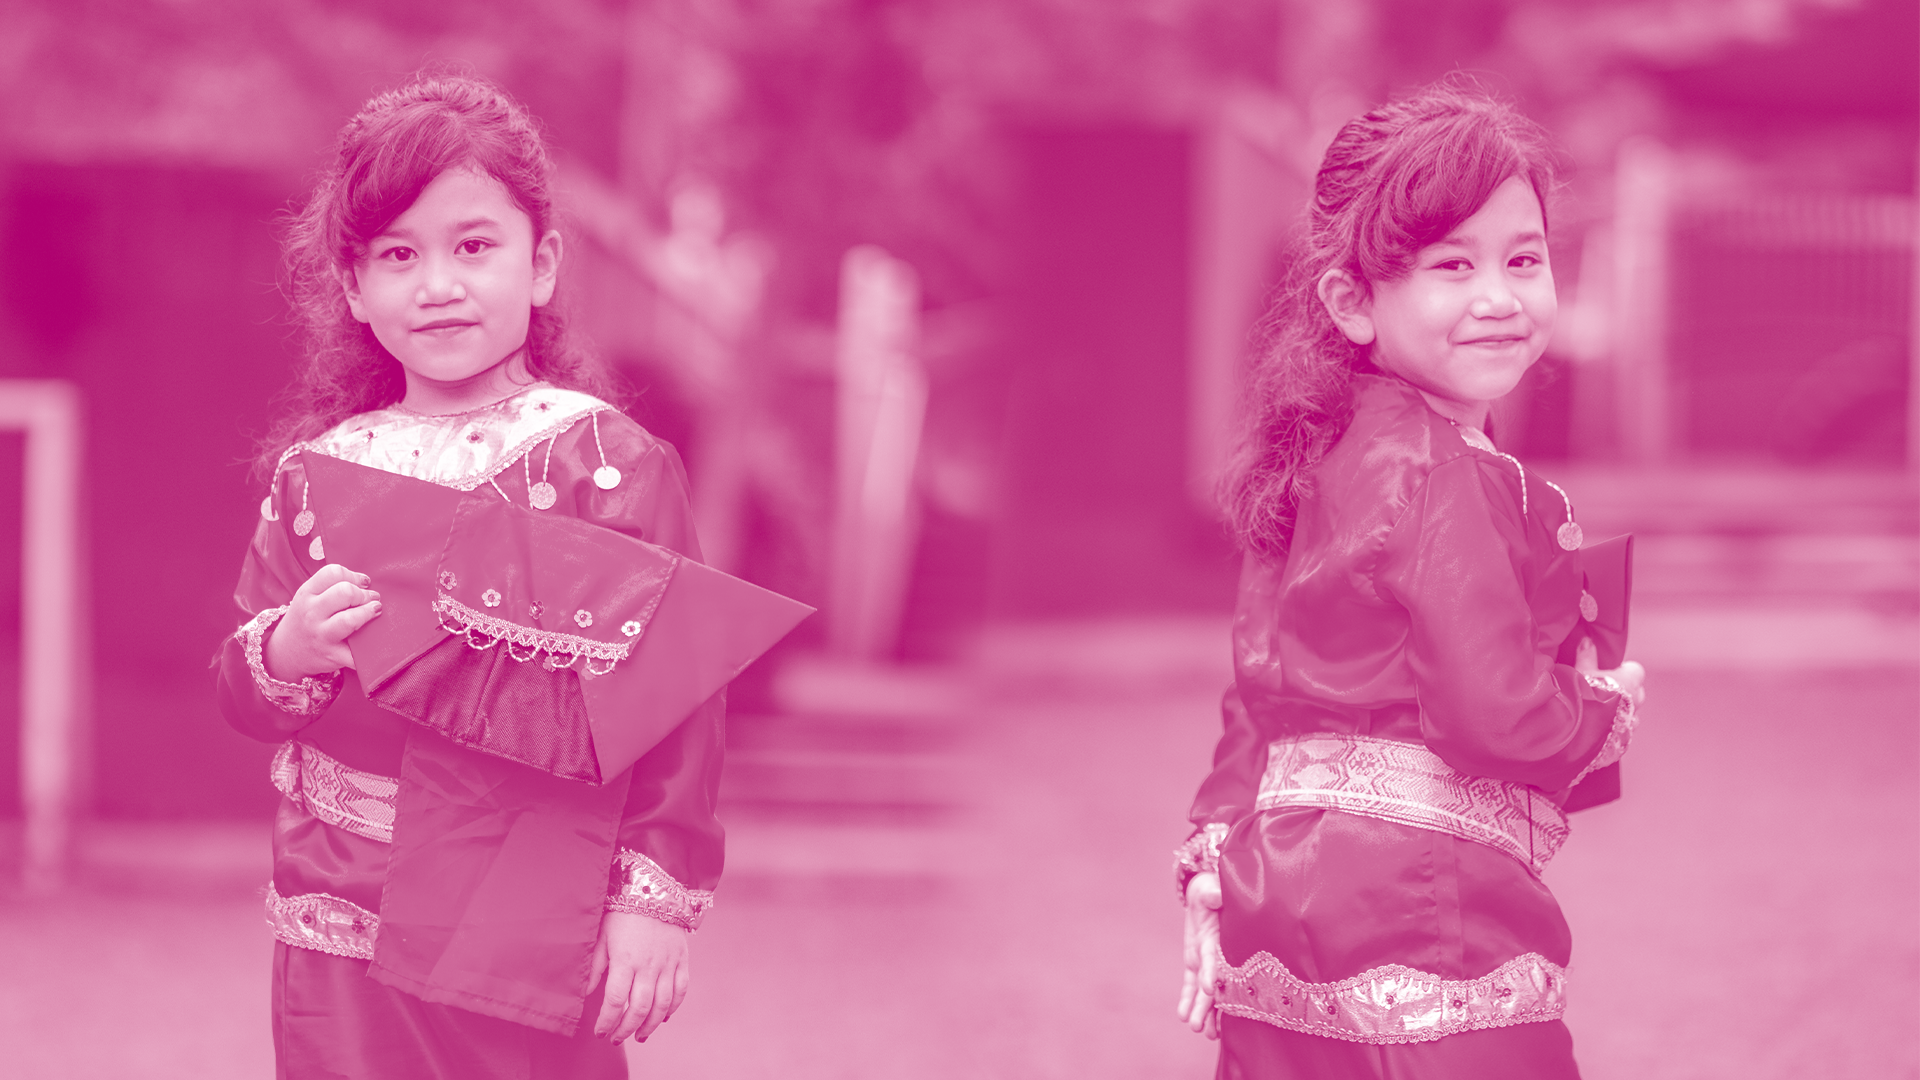
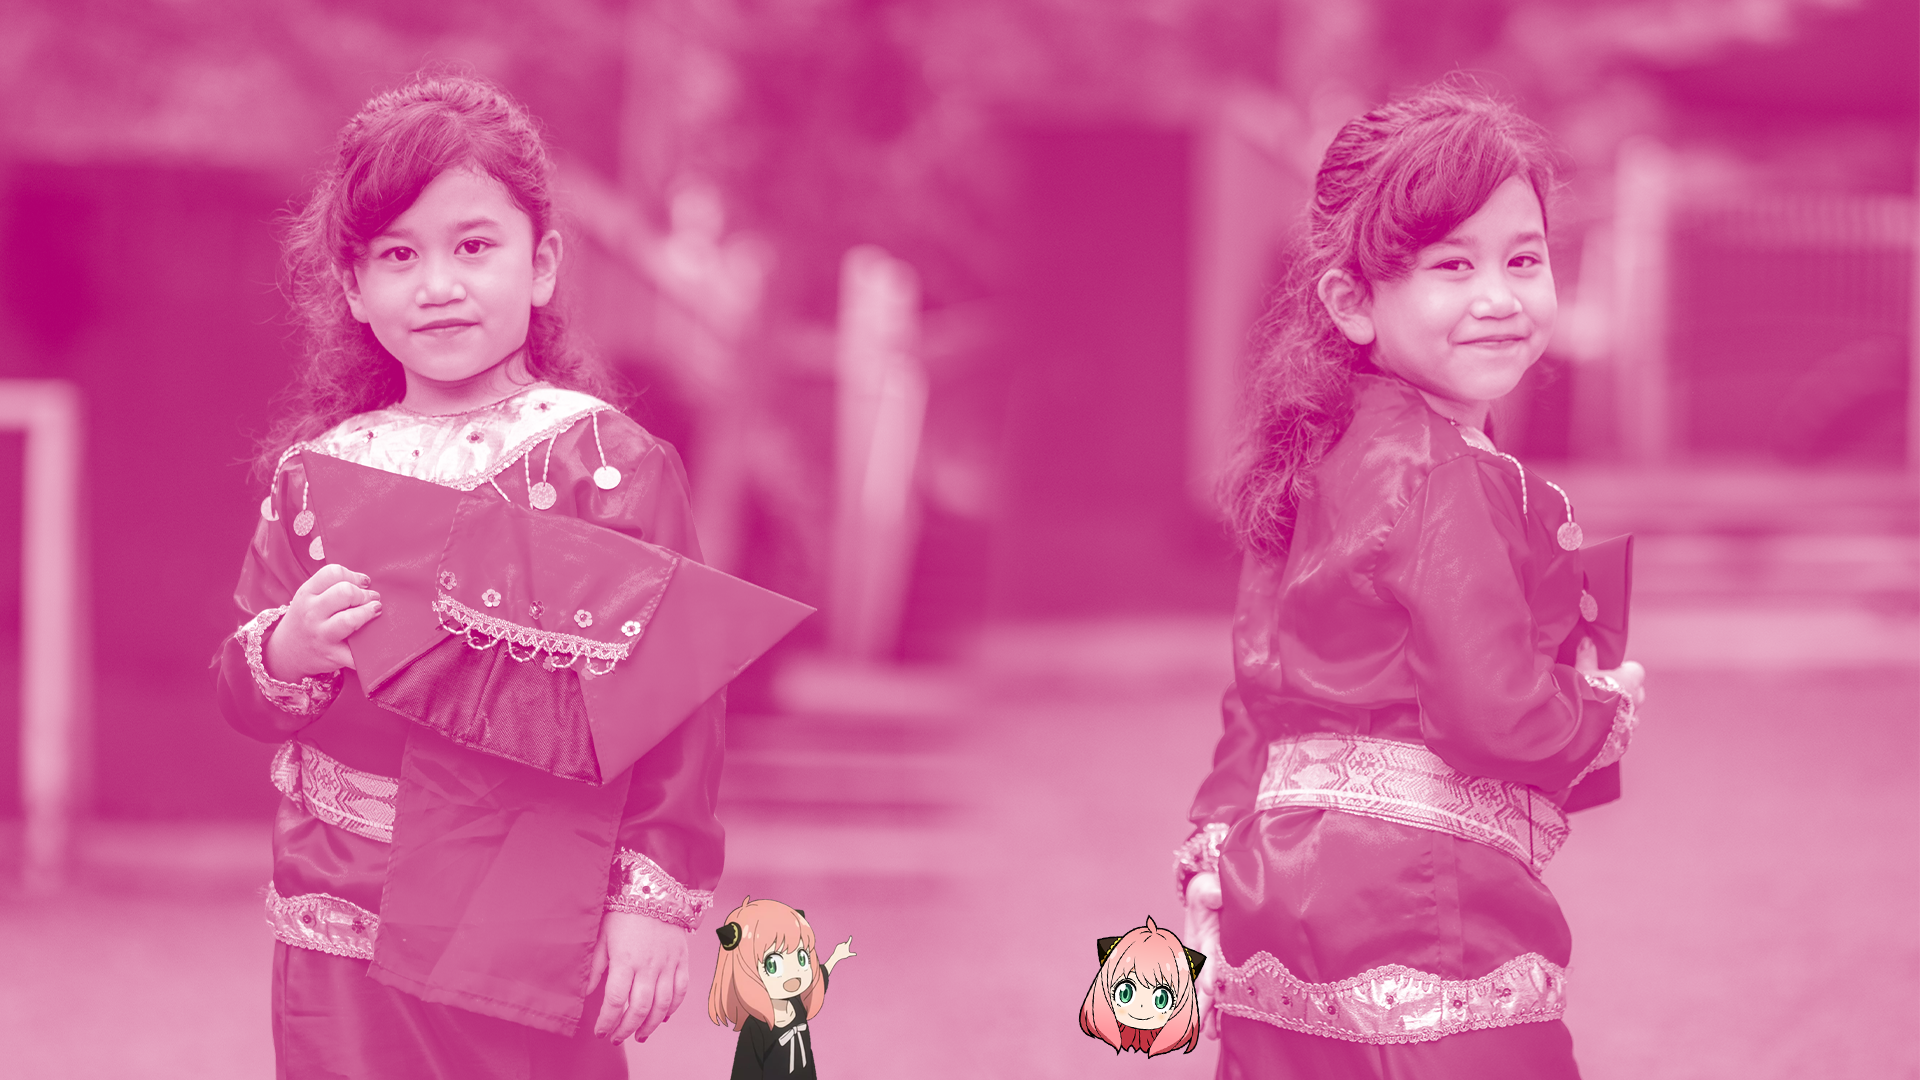
dua

Changed region(s): [[0.3438, 0.825, 0.4688, 1.0], [0.5625, 0.8556, 0.625, 0.9778]]

diff --git a/index.html b/index.html
@@ -219,12 +219,15 @@
     <div id="balloonContainer"></div>
     
     <!-- Header -->
-    <header class="relative h-screen flex items-center justify-center overflow-hidden">
+    <header class="relative flex items-center justify-center">
         <div class="absolute inset-0 bg-pink-100 opacity-60"></div>
-        <div class="absolute inset-0 flex items-center justify-center">
-            <img src="sample web.png" alt="Birthday Background" class="object-cover w-full h-full">
+        <div class="absolute inset-0 items-center justify-center">
+            <img src="sample web.png" alt="Birthday Background" class="object-cover w- h-full">
         </div>
-        <div class="relative z-10 text-center px-4">
+        <div class="relative z-10 y-90 text-center px-4">
+            <div class="flex items-center justify-center">
+                <img src="cover birthday.png" alt="Birthday Character" class="r w-80 h-90 float">
+            </div>
             <h1 class="font-dancing text-5xl md:text-7xl text-white mb-4 fade-in">Birthday Invitation</h1>
             <p class="text-xl md:text-2xl mb-6 text-white slide-up" style="animation-delay: 0.3s;">Please Join Us To Celebrate 7th</p>
             <h2 class="font-dancing text-4xl md:text-6xl text-white mb-2 pop" style="animation-delay: 0.6s;">Eleanor Sabira Nur</h2>
@@ -264,7 +267,7 @@
 
     <!-- Details Section -->
     <section class="px-10 bg-white">
-        <div class="flex items-center justify-center mb-8">
+        <div class="flex items-center justify-center mb-2">
             <img src="spy-family-anya-peace-512x512.png" alt="Birthday Character" class="object-cover w-80 h-80 float p-6">
         </div>
         <div class="max-w-4xl mx-auto text-center">
@@ -310,14 +313,7 @@
                     <img src="YOGIIGOY-381.JPEG.jpg" alt="Birthday Photo 3" class="w-full h-64 object-cover">
                 </div>
                 <div class="rounded-lg overflow-hidden shadow-md photo-hover pop" style="animation-delay: 0.8s;">
-                    <img src="YOGIIGOY-384.JPEG.jpg" alt="Birthday Photo 4" class="w-full h-64 object-cover">
-                </div>
-                <div class="rounded-lg overflow-hidden shadow-md photo-hover pop" style="animation-delay: 1s;">
-                    <img src="YOGIIGOY-387.JPEG.jpg" alt="Birthday Photo 5" class="w-full h-64 object-cover">
-                </div>
-                <div class="rounded-lg overflow-hidden shadow-md photo-hover pop" style="animation-delay: 1.2s;">
-                    <img src="FD315206-D739-46EA-993E-9BB8FF2593C4.JPG" alt="Birthday Photo 6" class="w-full h-64 object-cover">
-                </div>
+                    <img src="FD315206-D739-46EA-993E-9BB8FF2593C4.JPG" alt="Birthday Photo 4" class="w-full h-64 object-cover">
             </div>
         </div>
     </section>
